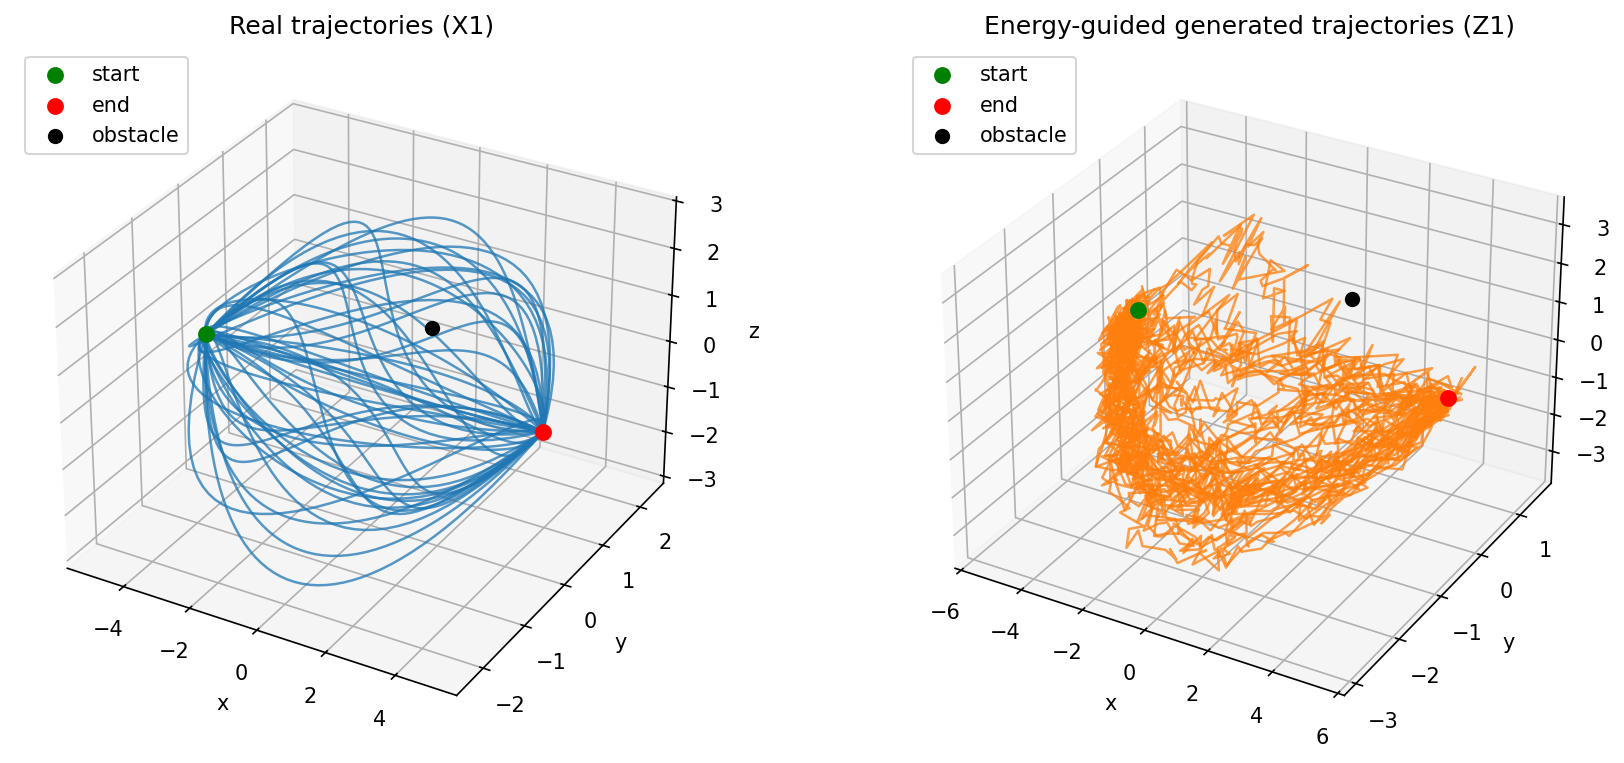
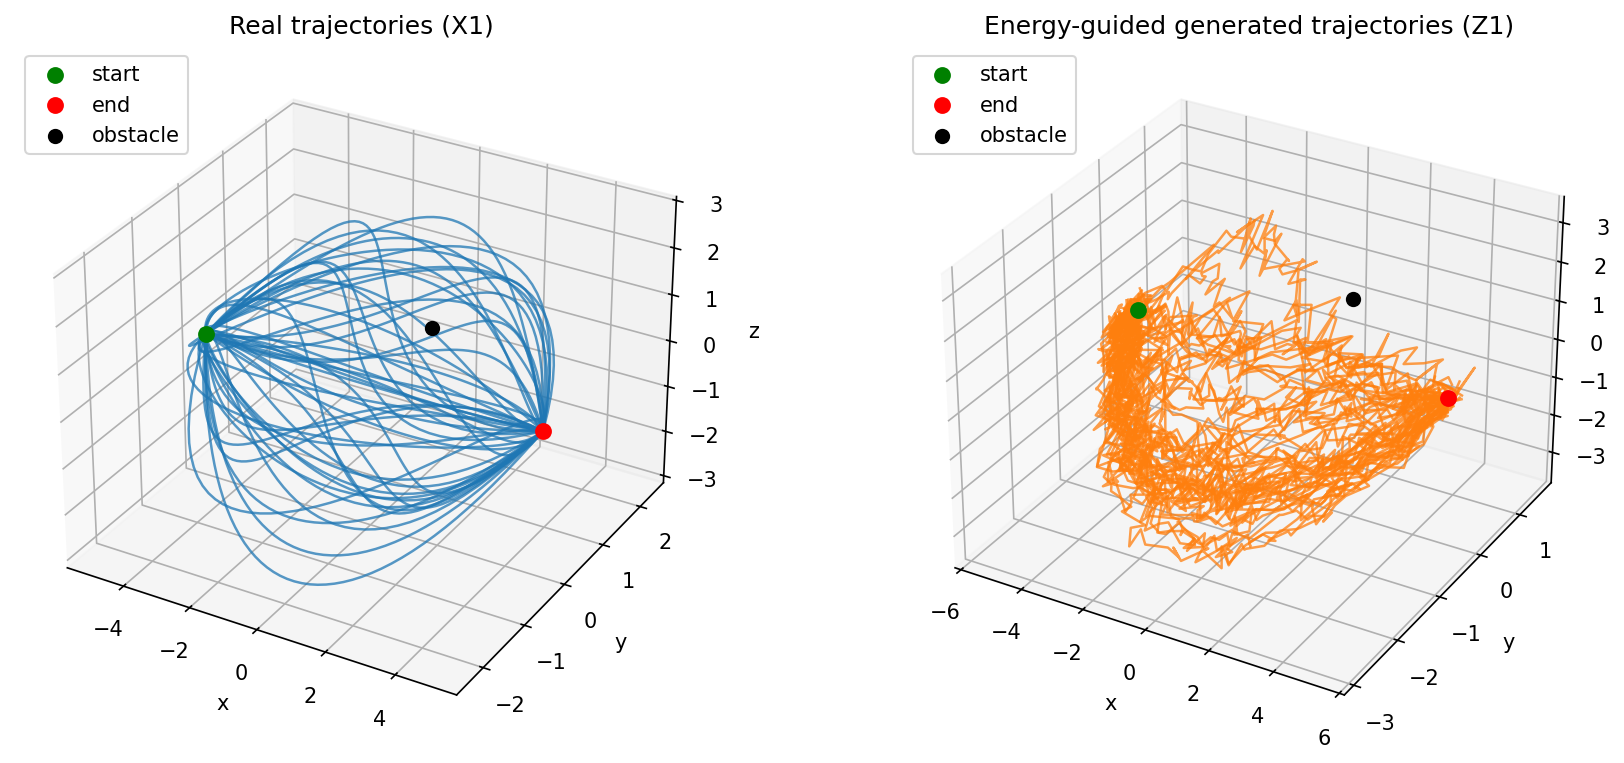
Update results

diff --git a/outputs/evaluation_summary.md b/outputs/evaluation_summary.md
@@ -5,7 +5,7 @@
 - `data_path`: `dataset/toy_trajectories.npy`
 - `checkpoint_path`: `checkpoints/rectified_flow_mlp.pt`
 - `device`: `cpu`
-- `num_samples`: `200`
+- `num_samples`: `50`
 - `steps`: `20`
 - `seed`: `42`
 - `guidance_scale`: `3.0`
@@ -17,13 +17,13 @@
 
 | Scenario | Method | Success Rate | Collision Rate | Min Distance | Smoothness | Path Length | Time (s) |
 | --- | --- | ---: | ---: | ---: | ---: | ---: | ---: |
-| in_distribution_origin | baseline | 0.9000 | 0.1000 | 0.1206 | 0.3040 | 18.1034 | 0.1569 |
-| in_distribution_origin | guided | 0.9850 | 0.0150 | 0.6177 | 4.4957 | 53.0077 | 0.0888 |
-| ood_shifted_y | baseline | 0.8550 | 0.1450 | 0.1298 | 0.3040 | 18.1034 | 0.0570 |
-| ood_shifted_y | guided | 1.0000 | 0.0000 | 1.4554 | 0.5742 | 22.3743 | 0.1037 |
+| in_distribution_origin | baseline | 0.9000 | 0.1000 | 0.6880 | 0.3056 | 18.0741 | 1.3465 |
+| in_distribution_origin | guided | 1.0000 | 0.0000 | 1.3561 | 4.6213 | 54.0603 | 1.6049 |
+| ood_shifted_y | baseline | 0.8400 | 0.1600 | 0.3201 | 0.3056 | 18.0741 | 0.5821 |
+| ood_shifted_y | guided | 1.0000 | 0.0000 | 1.4554 | 0.6418 | 22.9365 | 0.5410 |
 
 ## Reading The Table
 
 - `success_rate` is the primary obstacle-avoidance metric.
 - `smoothness` is the mean squared second difference; lower is smoother.
-- Baseline and guided use the same checkpoint, seed, sample count, and integration steps.
+- Baseline and guided use the same checkpoint, seed, sample count, integration steps, and initial noise z0.
